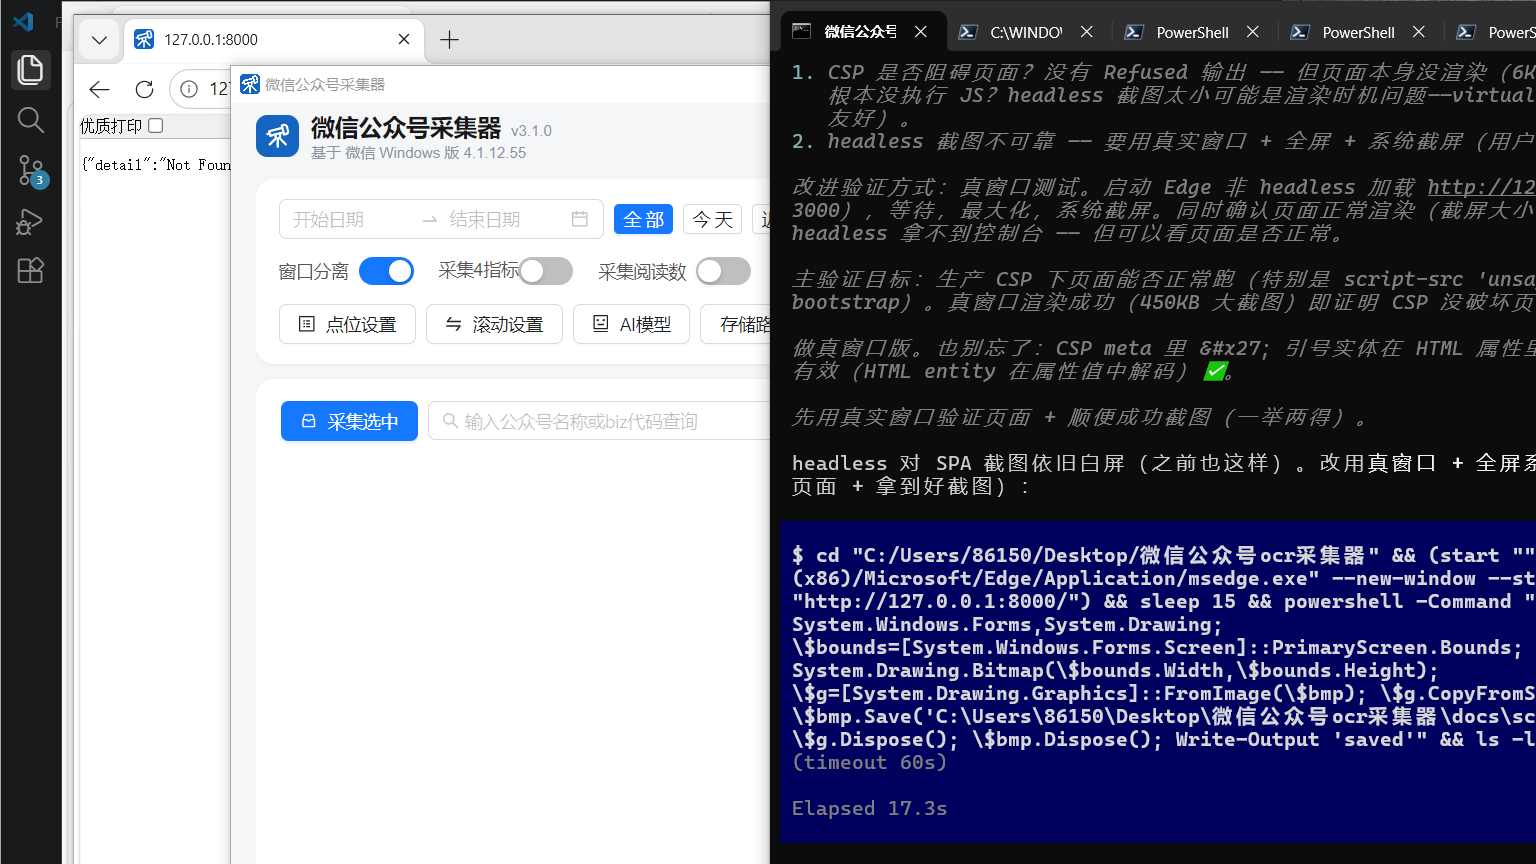
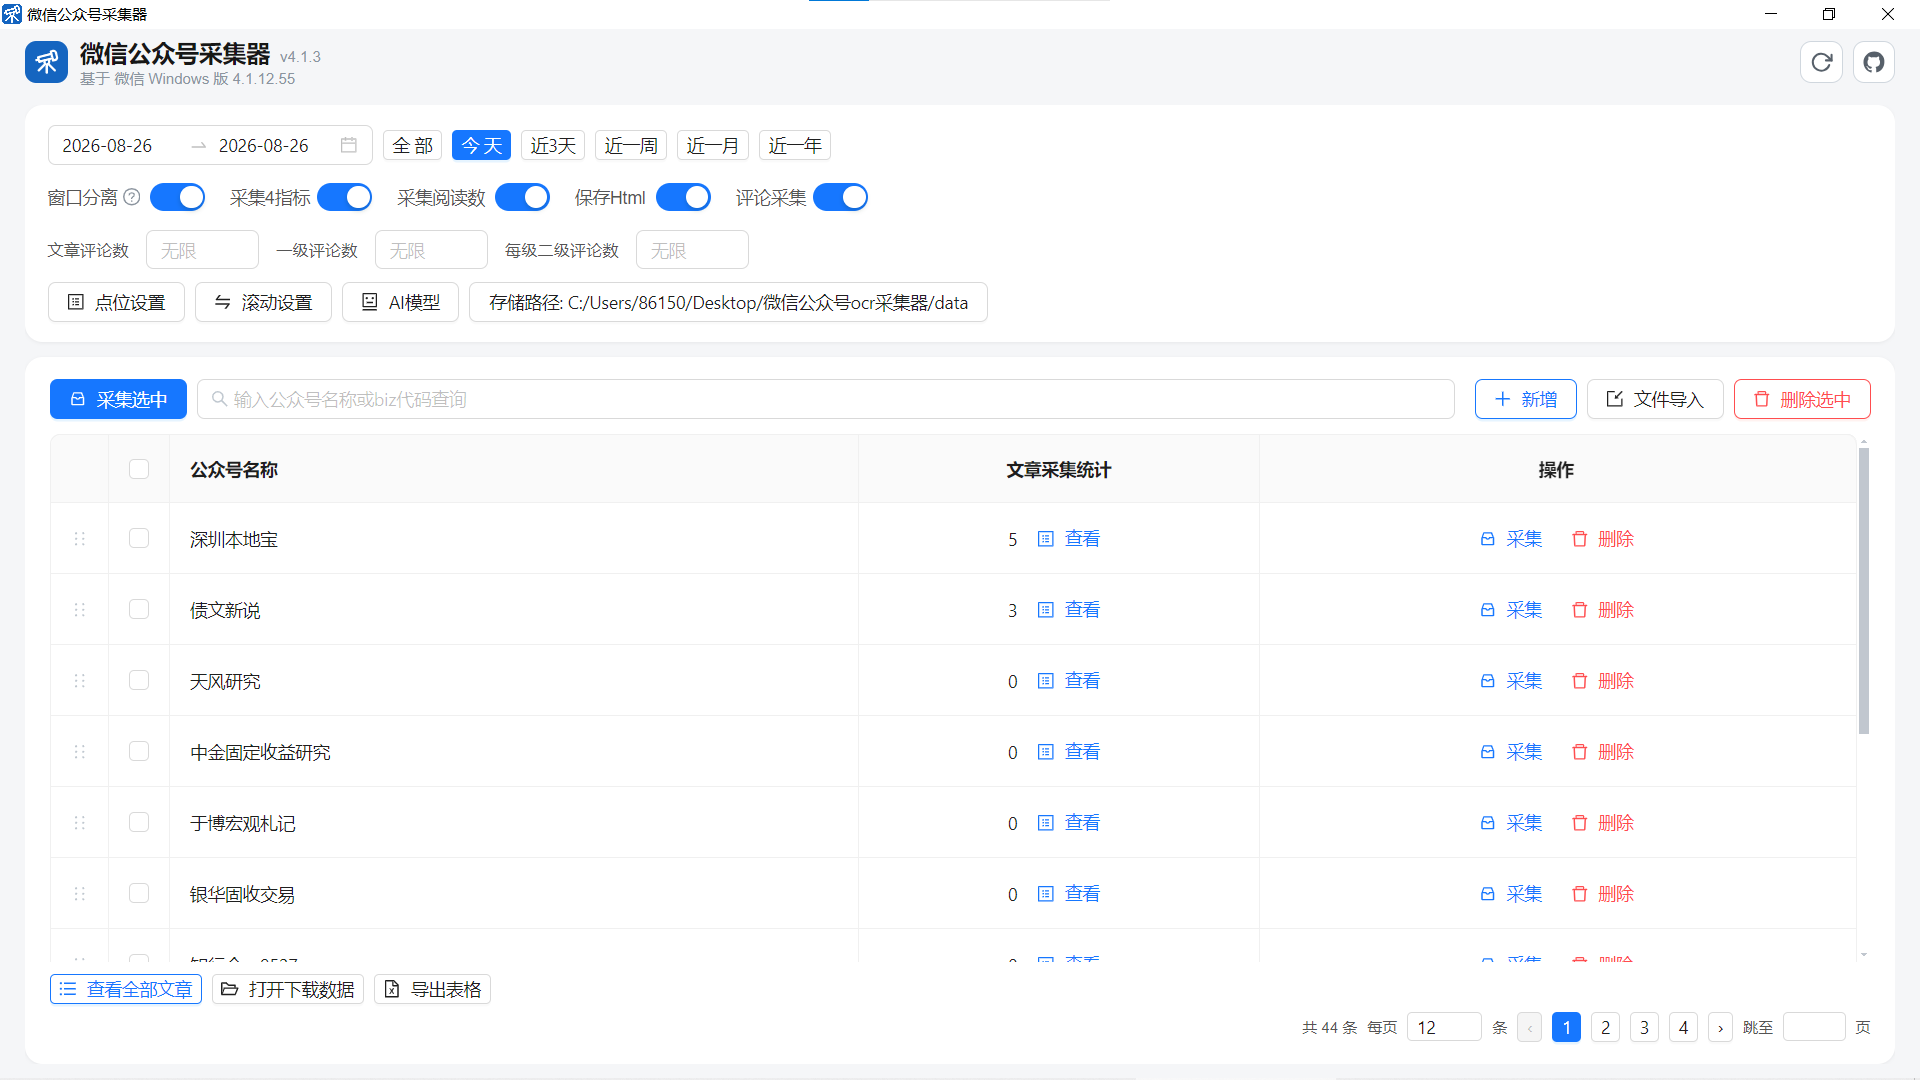
文档更新: 新增roadmap.md未来方向, 移除electron-engineering清单, 首页截图更新
- docs/roadmap.md: 点位/滚动自动设置方向(人工预设流程+OCR+AI视觉识别)
- 删除 docs/electron-engineering.md(方向全部完成则移除清单)
- 首页截图替换为最新程序界面

diff --git a/docs/roadmap.md b/docs/roadmap.md
@@ -1,0 +1,53 @@
+# 未来功能方向（Roadmap）
+
+> 当前版本：V4.1.x 已可完整运行。以下为未来规划的功能方向，按实现复杂度排列。
+
+## 一、点位/滚动设置的「自动设置」（规划中，较复杂）
+
+### 目标
+消除点位/滚动的人工配置负担：目前每个点位坐标、每条滚动距离都要人工录入/校准，
+未来一键自动识别目标要素并写入。
+
+### 交互位置
+
+**点位设置弹窗**：
+- 每行操作列新增「**自动设置**」按钮 → 只对该点位做自动识别
+- 列表顶部操作栏新增「**自动设置选中**」→ 批量对勾选点位逐项自动识别
+
+**滚动设置弹窗**：
+- 同样增加行级「自动设置」与顶部「自动设置选中」
+- 自动识别目标滚动区域（文章列表/评论区）并计算滚动距离
+
+### 实现思路
+
+```
+人工预设流程(模板)  →  OCR 读屏  →  AI 视觉识别目标  →  自动写入坐标/距离
+```
+
+1. **人工预设流程模板**：为每类点位定义一个"取证流程"（如"点击微信左上角搜索框"=
+   先点击左上角区域 → 等待 → 截图该区域 → OCR/AI 从截图中识别目标按钮/输入框位置）
+2. **OCR 初筛**：利用现有 rapidocr 引擎读屏文本，锁定目标元素文字位置
+3. **AI 视觉模型精确定位**：豆包视觉模型从区域截图识别目标组件坐标（如"搜索按钮"、
+   "评论区底部"），换算回屏幕坐标
+4. **写入与校验**：识别结果写入点位 x/y（滚动距离按区域比例/实测换算），
+   再利用现有"完整性校验 + 预览"机制人工复核
+
+### 依赖与前置
+
+- AI 视觉定位的稳定性：需要针对微信各界面训练/调优提示词（提示词模板需按点位收集）
+- 屏幕分辨率差异：识别结果需换算到当前显示器比例
+- 滚动距离依赖滚动测试（现有「滚动」按钮）辅助校准
+- 新用户引导：可与现有"报红 → 一键自动设置"联动（列表报红时引导点自动设置）
+
+### 里程碑拆分
+
+| 阶段 | 内容 |
+|---|---|
+| M1 | 单点位「自动设置」原型（选 2~3 个典型点位验证识别成功率） |
+| M2 | 点位行级按钮接通用 + 批量「自动设置选中」 |
+| M3 | 滚动设置自动识别（区域 OCR + 距离换算） |
+| M4 | 提示词模板库收敛 + 异常回退（识别失败 → 保底人工） |
+
+---
+
+*维护：优先级与里程碑随实际推进更新；实现前在独立分支原型验证成功率。*
